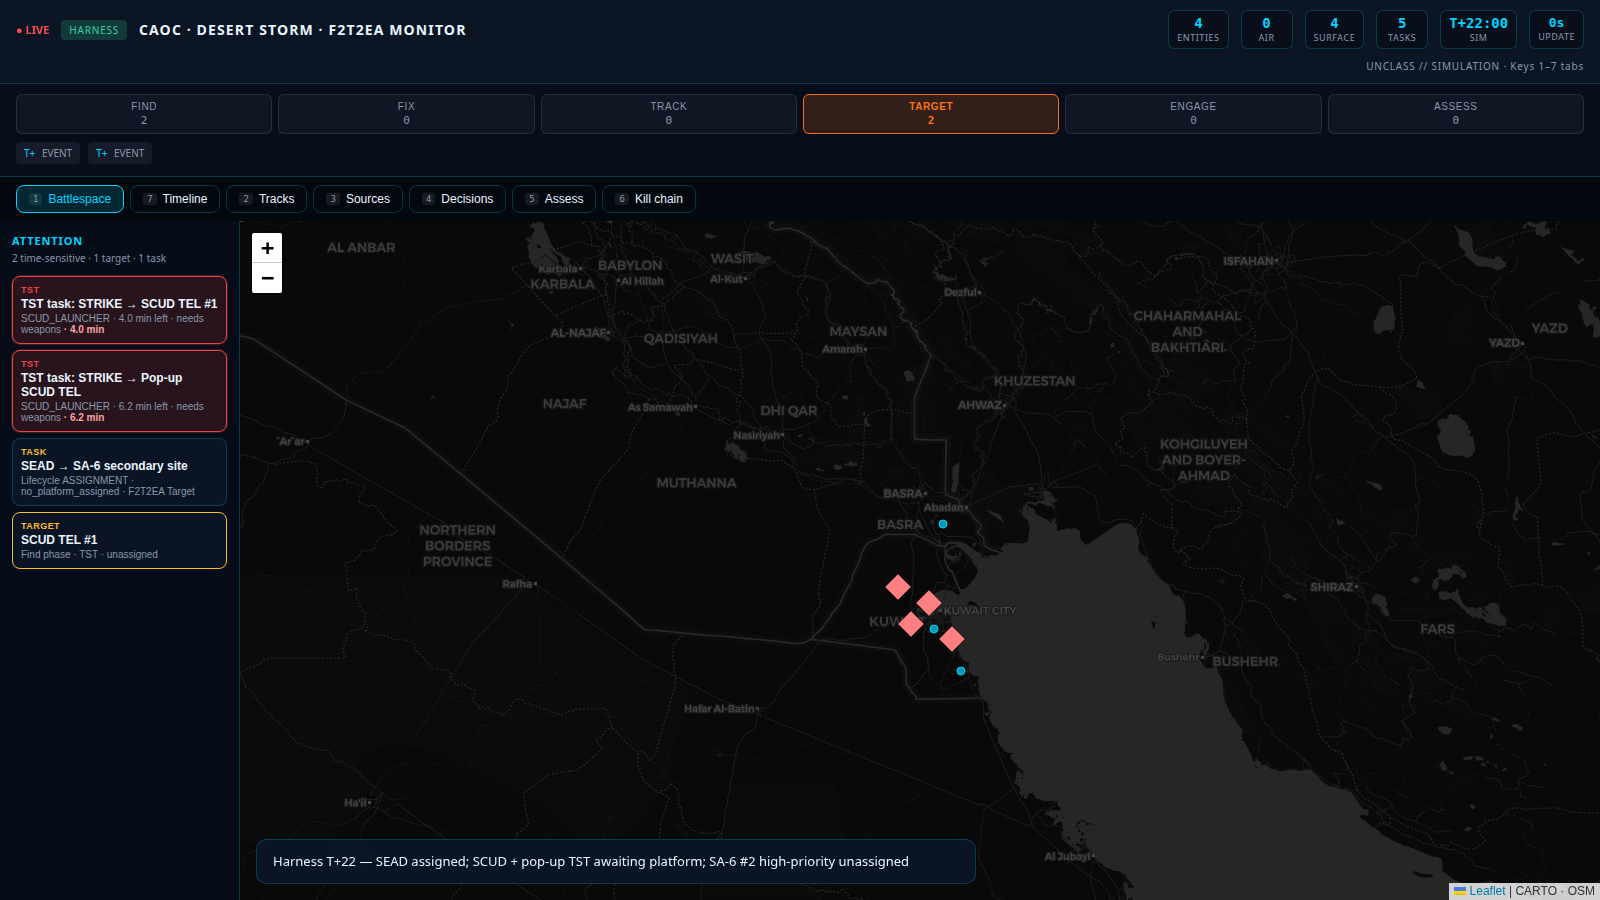
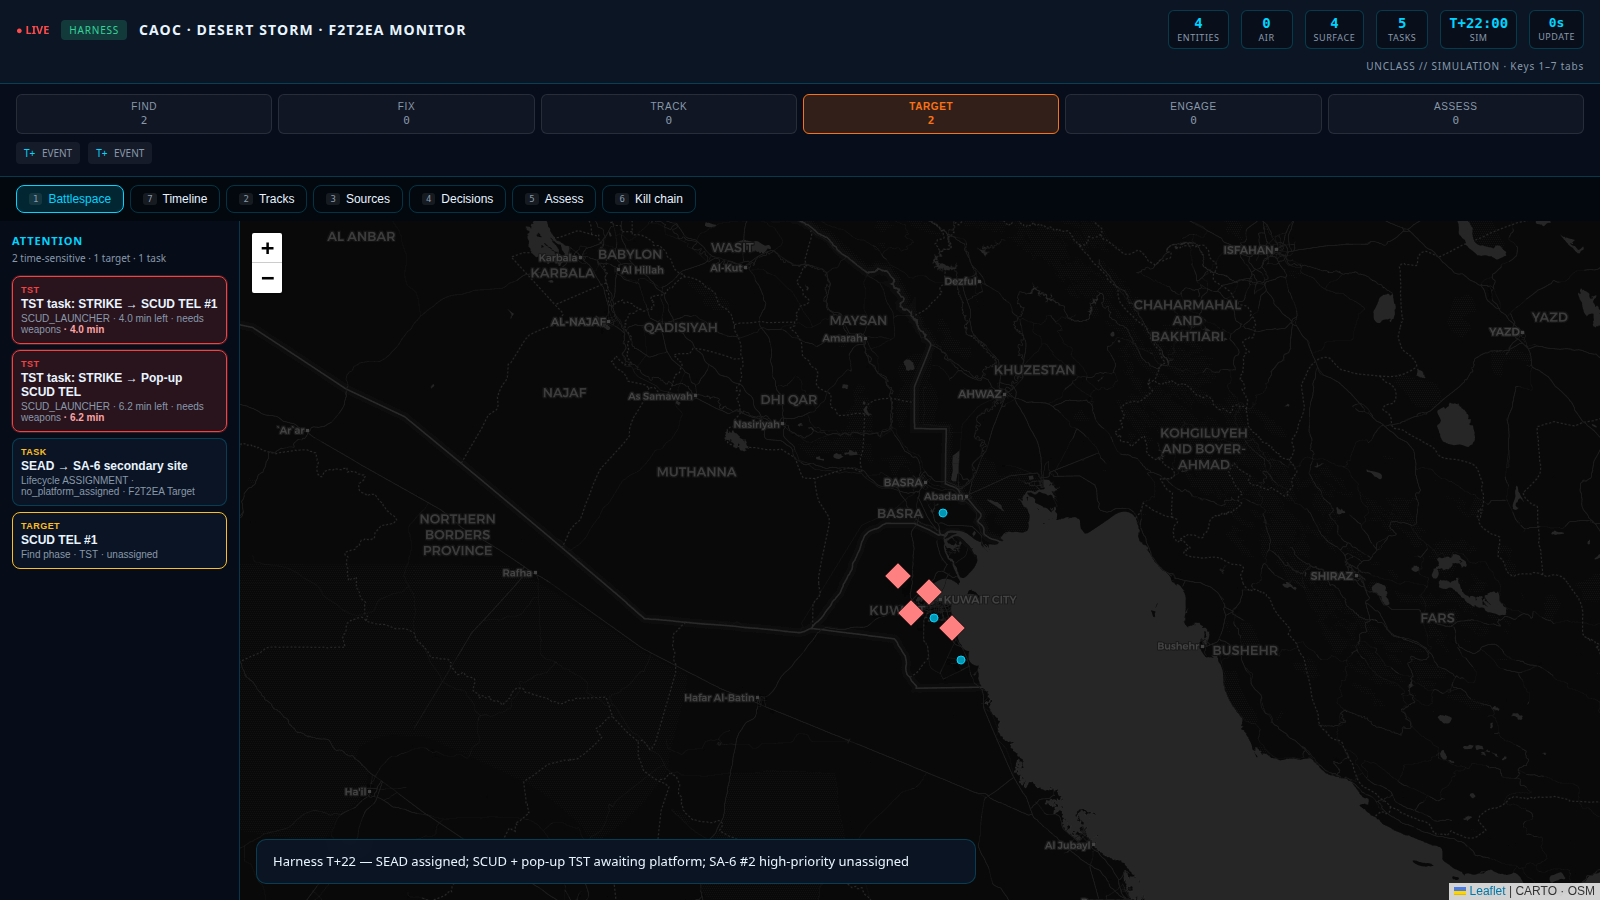
docs: refresh display screenshots and bus-subscriber architecture
Update README with cross-stack/BUS_PICTURE_MODE quick start and mermaid
architecture; regenerate harness display screenshots for README.

diff --git a/README.md b/README.md
@@ -8,7 +8,15 @@
 | **battlespace-display** | Gulf War F2T2EA operator UI — kill chain, tasking, advisor | UI `:8081`, API `:8004` |
 | **rf-display** | RF spectrum / EMSO — commlinks, threat radars, EW jamming, EMCON deconfliction | UI `:8082`, API `:8005` |
 
-Simulation engines, sensors, and the sim-control panel remain in **o-my-sim**. Core C2 pipeline (entity-sorter, commlink-status, control plane) remains in **o-my**.
+Simulation engines, sensors, and the sim-control panel remain in **o-my-sim** (sim-control → **scenario-director :8010**, not embedded GulfWarEngine). Core C2 pipeline (entity-fusion, entity-sorter, commlink-status, control plane) remains in **o-my**.
+
+**Cross-stack displays:** with o-my processors + o-my-sim publishers running, start displays against shared Redis:
+
+```bash
+cd ../o-my && ./scripts/run-cross-stack-compose.sh -d
+cd ../o-my && ./scripts/run-cross-stack-displays.sh
+# or: REDIS_URL=redis://127.0.0.1:6379/0 ./scripts/run-battlespace-bus.sh
+```
 
 ## Operator displays
 
@@ -39,7 +47,7 @@ Tactical COP architecture is documented in [ADR 001 — tactical COP stack](docs
 | **Map** | Leaflet + **milsymbol** (MIL-STD-2525D) | Leaflet |
 | **Picture transport** | SSE `GET /api/stream` + snapshot `GET /api/picture` | SSE + REST |
 | **API** | FastAPI, uvicorn | FastAPI, uvicorn, Redis |
-| **Scenario / tracks** | Embedded or Redis `GulfWarEngine` (`o-my-sim`) | o-my pipeline (`uci.entity.*`, commlinks) |
+| **Scenario / tracks** | `BUS_PICTURE_MODE` bus subscriber or embedded `GulfWarEngine` (harness) | o-my fusion path (`uci.correlated.entity`, `uci.entity.*`) |
 | **Contracts** | Zod `Track` model, `picture_contract.py` | UCI XML → categorized entities |
 | **Tests** | vitest (web), Python unittest (API) | vitest, Python unittest |
 
@@ -80,7 +88,7 @@ With full o-my Redis pipeline, start o-my core services first, then entity-displ
 
 ### Battlespace display (Gulf War)
 
-Embedded engine + API:
+**Harness / demo** (embedded engine):
 
 ```bash
 python3 scripts/run-battlespace-local.py
@@ -90,7 +98,16 @@ python3 scripts/run-battlespace-local.py
 # UI  :8081
 ```
 
-Sim engineers use **o-my-sim** sim-control panel (`:8090`) to drive the same API.
+**Cross-stack / bus picture mode** (no GulfWarEngine truth — recommended with o-my processors):
+
+```bash
+export REDIS_URL=redis://127.0.0.1:6379/0
+export BUS_PICTURE_MODE=1
+./scripts/run-battlespace-bus.sh
+# UI :8081 · API :8004 · COP from uci.correlated.entity, uci.task, uci.agent.suggestion
+```
+
+Sim engineers use **o-my-sim** sim-control panel (`:8090`) against **scenario-director** (`:8010`).
 
 ## Docker
 
@@ -157,19 +174,51 @@ Repo ownership and decoupling rules: [ADR 002](docs/adr/002-repo-boundaries.md).
 ## Architecture
 
 ```mermaid
-flowchart LR
-  subgraph omy [o-my]
-    Pipeline[entity-sorter + commlink-status]
+flowchart TB
+  subgraph omy [o-my processors]
+    FUSE[entity-fusion]
+    SORT[entity-sorter]
+    CP[service-control-plane]
   end
-  subgraph omysim [o-my-sim]
-    Engine[GulfWarEngine + sensors]
+  subgraph omysim [o-my-sim publishers]
+    SD[scenario-director :8010]
+    SNS[sensor sims]
+    PLAT[platform-status-sim]
     SimCtrl[sim-control :8090]
   end
-  subgraph bm [battlespace-manager]
+  subgraph bus [Redis uci.*]
+    REDIS[(pub/sub)]
+  end
+  subgraph bm [battlespace-manager subscribers]
     ED[entity-display :8080]
     BD[battlespace-display :8081]
+    PORTAL[display-portal :8888]
   end
-  Pipeline -->|uci.entity.* uci.commlink.*| ED
-  Engine -->|embedded or Redis| BD
-  SimCtrl -->|/api/sim/*| BD
+  SimCtrl -->|/api/sim/*| SD
+  SD --> REDIS
+  SNS --> REDIS
+  PLAT --> REDIS
+  REDIS --> FUSE
+  FUSE --> REDIS
+  REDIS --> SORT
+  CP -->|uci.service.status| REDIS
+  REDIS --> ED
+  REDIS --> BD
+  REDIS --> PORTAL
+```
+
+| Mode | entity-display | battlespace-display | Service health |
+|------|----------------|---------------------|----------------|
+| Harness | `ENTITY_HARNESS=1` | `BATTLESPACE_HARNESS=1` | HTTP `/health` probes |
+| Cross-stack bus | `REDIS_URL` + fusion topics | `BUS_PICTURE_MODE=1` | `uci.service.status` preferred |
+
+Legacy embedded path (deprecated for cross-stack):
+
+```mermaid
+flowchart LR
+  subgraph legacy [Legacy harness only]
+    Engine[GulfWarEngine monolith]
+    BD2[battlespace-display :8081]
+  end
+  Engine --> BD2
 ```